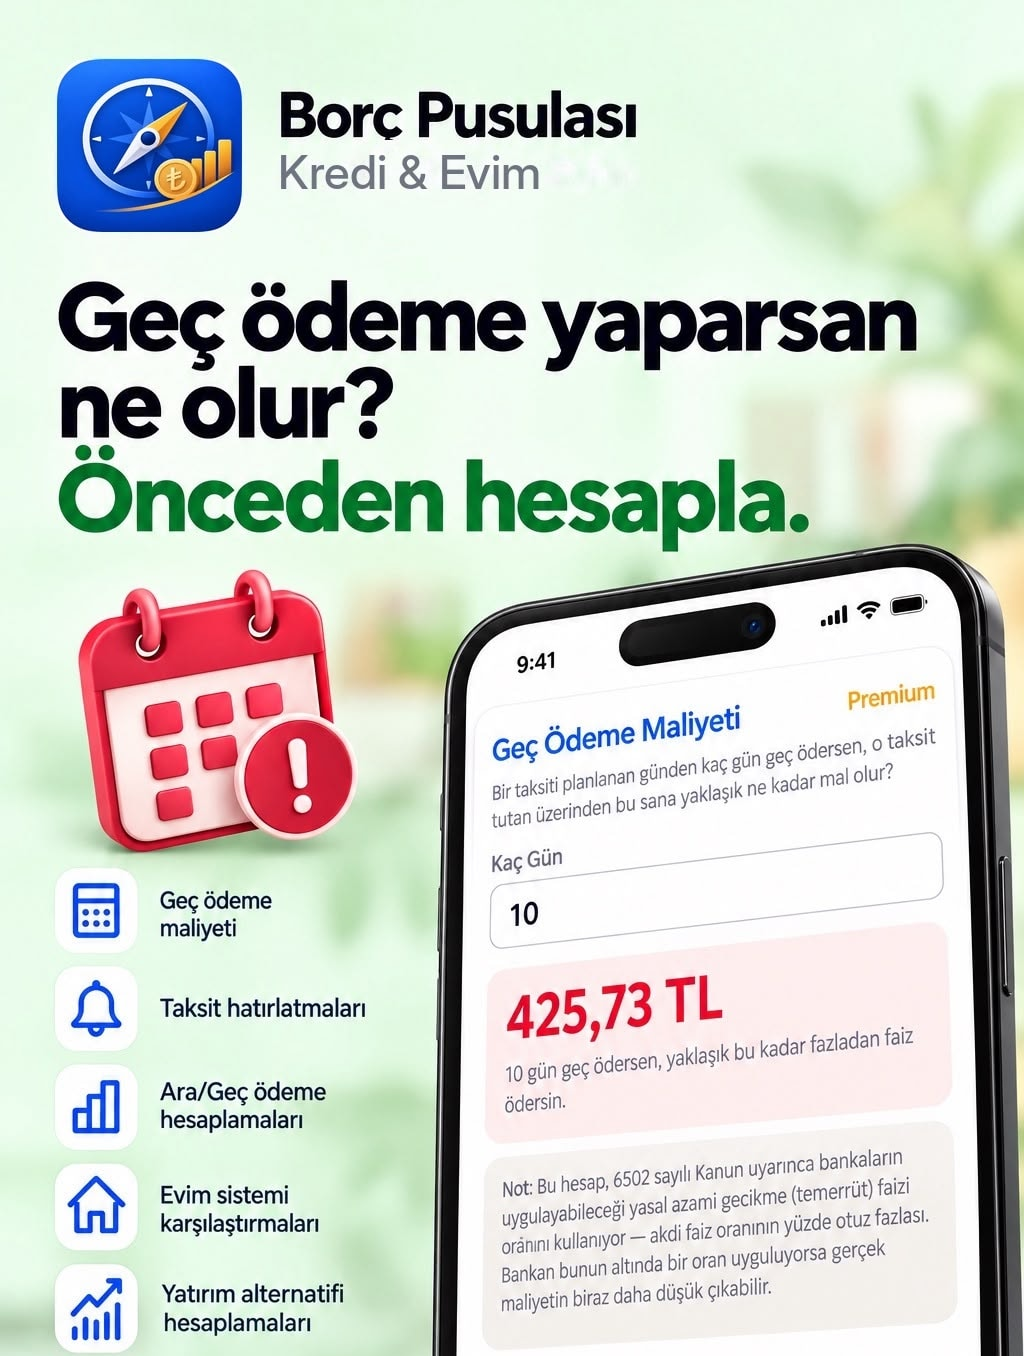
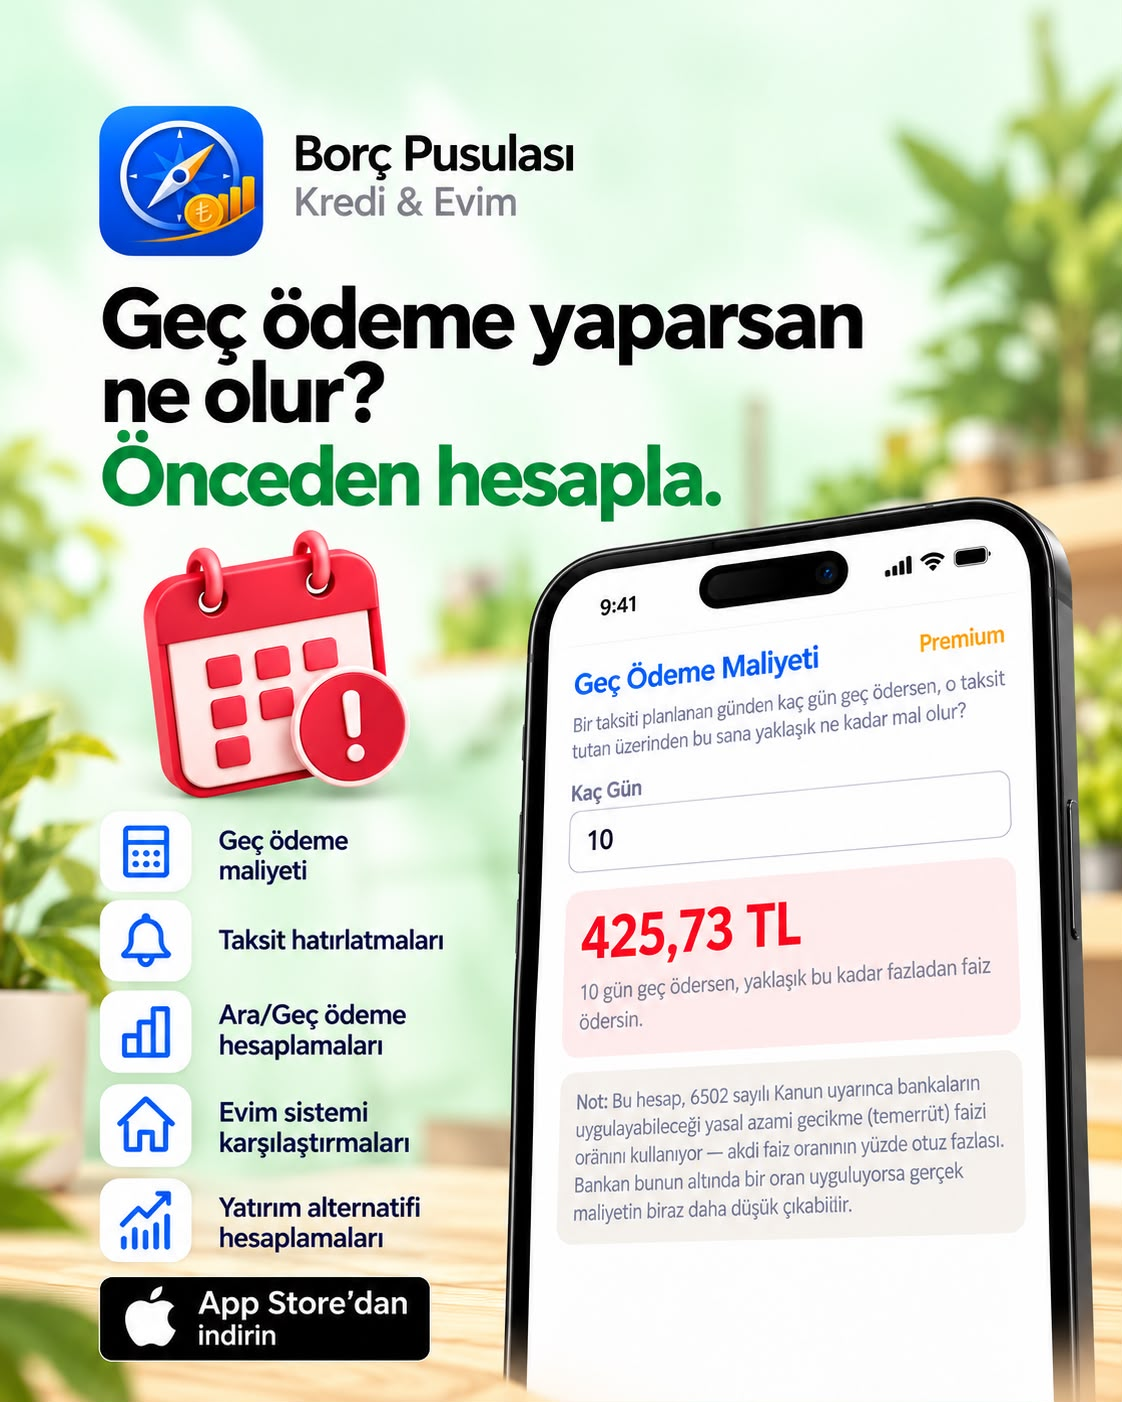
Refresh the poster images and add the Gayrimenkul Satış Vergim and Takip posters

diff --git a/index.html b/index.html
@@ -93,8 +93,8 @@
   .lead { font-size: clamp(18px, 2.2vw, 21px); color: var(--ink-soft); margin: 20px 0 30px; max-width: 34em; }
   .cta-row { display: flex; flex-wrap: wrap; align-items: center; gap: 16px; }
   .cta-note { color: var(--ink-soft); font-size: 15px; }
-  .hero-shot { justify-self: center; width: min(100%, 300px); }
-  .hero-shot .shot { aspect-ratio: 560 / 760; }
+  .hero-shot { justify-self: center; width: min(100%, 440px); }
+  .hero-shot .shot { aspect-ratio: 1 / 1; }
   .hero-shot .shot img { width: 100%; height: 100%; object-fit: cover; object-position: top; }
   .shots .shot img { width: 100%; height: auto; }
   .shot {
@@ -149,7 +149,7 @@
 
   @media (max-width: 820px) {
     .hero .wrap { grid-template-columns: 1fr; }
-    .hero-shot { order: -1; width: min(70%, 260px); }
+    .hero-shot { order: -1; width: min(100%, 420px); }
   }
   @media (prefers-reduced-motion: reduce) { html { scroll-behavior: auto; } .btn { transition: none; } }
 </style>
@@ -177,7 +177,7 @@
         </div>
       </div>
       <div class="hero-shot">
-        <div class="shot"><img src="img/ana-sayfa-poster.jpg" alt="Borç Pusulası ana sayfa: borçlarını sadece takip etme, gerçek maliyetini gör" width="1024" height="1356"></div>
+        <div class="shot"><img src="img/ana-sayfa-poster.jpg" alt="Borç Pusulası ana sayfa: borçlarını sadece takip etme, gerçek maliyetini gör" width="1254" height="1254"></div>
       </div>
     </div>
   </section>
@@ -240,18 +240,20 @@
     <div class="wrap wide">
       <h2 id="ekranlar">Ekranlardan</h2>
       <div class="shots">
-        <figure><a class="shot" href="img/kiram-ne-kadar-olur.jpg" target="_blank" rel="noopener"><img src="img/kiram-ne-kadar-olur.jpg" alt="Kiram Ne Kadar Olur?: kira artışını enflasyon, yeni kiracı endeksi ve yasal sınırla kıyasla" loading="lazy" width="1024" height="1536"></a></figure>
-        <figure><a class="shot" href="img/kredi-karti.jpg" target="_blank" rel="noopener"><img src="img/kredi-karti.jpg" alt="Kredi Kartı Borcun Ne Olur? hesaplayıcısı" loading="lazy" width="1024" height="1356"></a></figure>
-        <figure><a class="shot" href="img/ortalama-faiz.jpg" target="_blank" rel="noopener"><img src="img/ortalama-faiz.jpg" alt="Ortalama kredi faizleri: ihtiyaç, taşıt ve konut" loading="lazy" width="1024" height="1356"></a></figure>
-        <figure><a class="shot" href="img/gercek-maliyet.jpg" target="_blank" rel="noopener"><img src="img/gercek-maliyet.jpg" alt="Kredinin gerçek yıllık maliyeti ekranı" loading="lazy" width="1024" height="1356"></a></figure>
-        <figure><a class="shot" href="img/param.jpg" target="_blank" rel="noopener"><img src="img/param.jpg" alt="Param ne kadar olurdu: geçmiş getiri hesabı" loading="lazy" width="1024" height="1356"></a></figure>
-        <figure><a class="shot" href="img/biriktirsem.jpg" target="_blank" rel="noopener"><img src="img/biriktirsem.jpg" alt="Biriktirsem ne olur?: günlük, haftalık ya da aylık birikimin bileşik getiriyle ne kadar olur" loading="lazy" width="1024" height="1536"></a></figure>
-        <figure><a class="shot" href="img/evim.jpg" target="_blank" rel="noopener"><img src="img/evim.jpg" alt="Biriktirsem mi, Evim Sistemi ile mi alsam: karşılaştırma" loading="lazy" width="1024" height="1356"></a></figure>
-        <figure><a class="shot" href="img/karsilastir.jpg" target="_blank" rel="noopener"><img src="img/karsilastir.jpg" alt="Kredi mi, Evim Sistemi mi? Karşılaştır: bugünün parasıyla net maliyet" loading="lazy" width="1024" height="1536"></a></figure>
-        <figure><a class="shot" href="img/kmh.jpg" target="_blank" rel="noopener"><img src="img/kmh.jpg" alt="KMH günlük maliyet hesabı" loading="lazy" width="1024" height="1356"></a></figure>
-        <figure><a class="shot" href="img/gec-odeme.jpg" target="_blank" rel="noopener"><img src="img/gec-odeme.jpg" alt="Geç ödeme yaparsan ne olur: önceden hesapla" loading="lazy" width="1024" height="1356"></a></figure>
-        <figure><a class="shot" href="img/ara-odeme.jpg" target="_blank" rel="noopener"><img src="img/ara-odeme.jpg" alt="Ara ödeme yaparsan yeni durum nasıl olur? Hesapla" loading="lazy" width="1024" height="1536"></a></figure>
-        <figure><a class="shot" href="img/bildirim.jpg" target="_blank" rel="noopener"><img src="img/bildirim.jpg" alt="Bildirimle ödeme günlerini hatırlat" loading="lazy" width="1024" height="1356"></a></figure>
+        <figure><a class="shot" href="img/kiram-ne-kadar-olur.jpg" target="_blank" rel="noopener"><img src="img/kiram-ne-kadar-olur.jpg" alt="Kiram Ne Kadar Olur?: kira artışını enflasyon, yeni kiracı endeksi ve yasal sınırla kıyasla" loading="lazy" width="1122" height="1402"></a></figure>
+        <figure><a class="shot" href="img/gayrimenkul-vergi.jpg" target="_blank" rel="noopener"><img src="img/gayrimenkul-vergi.jpg" alt="Gayrimenkul Satış Vergim Ne Olur?: 5 yıl dolmadan satarsan çıkabilecek vergiyi hesapla" loading="lazy" width="1122" height="1402"></a></figure>
+        <figure><a class="shot" href="img/kredi-karti.jpg" target="_blank" rel="noopener"><img src="img/kredi-karti.jpg" alt="Kredi Kartı Borcun Ne Olur? hesaplayıcısı" loading="lazy" width="1254" height="1254"></a></figure>
+        <figure><a class="shot" href="img/ortalama-faiz.jpg" target="_blank" rel="noopener"><img src="img/ortalama-faiz.jpg" alt="Ortalama kredi faizleri: ihtiyaç, taşıt ve konut" loading="lazy" width="1122" height="1402"></a></figure>
+        <figure><a class="shot" href="img/takip.jpg" target="_blank" rel="noopener"><img src="img/takip.jpg" alt="Takip: tüm kredi, KMH ve Evim Sistemi hesaplarının güncel durumu tek listede" loading="lazy" width="1254" height="1254"></a></figure>
+        <figure><a class="shot" href="img/gercek-maliyet.jpg" target="_blank" rel="noopener"><img src="img/gercek-maliyet.jpg" alt="Kredinin gerçek yıllık maliyeti ekranı" loading="lazy" width="1254" height="1254"></a></figure>
+        <figure><a class="shot" href="img/param.jpg" target="_blank" rel="noopener"><img src="img/param.jpg" alt="Param ne kadar olurdu: geçmiş getiri hesabı" loading="lazy" width="1254" height="1254"></a></figure>
+        <figure><a class="shot" href="img/biriktirsem.jpg" target="_blank" rel="noopener"><img src="img/biriktirsem.jpg" alt="Biriktirsem ne olur?: günlük, haftalık ya da aylık birikimin bileşik getiriyle ne kadar olur" loading="lazy" width="1254" height="1254"></a></figure>
+        <figure><a class="shot" href="img/evim.jpg" target="_blank" rel="noopener"><img src="img/evim.jpg" alt="Biriktirsem mi, Evim Sistemi ile mi alsam: karşılaştırma" loading="lazy" width="1254" height="1254"></a></figure>
+        <figure><a class="shot" href="img/karsilastir.jpg" target="_blank" rel="noopener"><img src="img/karsilastir.jpg" alt="Kredi mi, Evim Sistemi mi? Karşılaştır: bugünün parasıyla net maliyet" loading="lazy" width="1254" height="1254"></a></figure>
+        <figure><a class="shot" href="img/kmh.jpg" target="_blank" rel="noopener"><img src="img/kmh.jpg" alt="KMH günlük maliyet hesabı" loading="lazy" width="1254" height="1254"></a></figure>
+        <figure><a class="shot" href="img/gec-odeme.jpg" target="_blank" rel="noopener"><img src="img/gec-odeme.jpg" alt="Geç ödeme yaparsan ne olur: önceden hesapla" loading="lazy" width="1122" height="1402"></a></figure>
+        <figure><a class="shot" href="img/ara-odeme.jpg" target="_blank" rel="noopener"><img src="img/ara-odeme.jpg" alt="Ara ödeme yaparsan yeni durum nasıl olur? Hesapla" loading="lazy" width="1254" height="1254"></a></figure>
+        <figure><a class="shot" href="img/bildirim.jpg" target="_blank" rel="noopener"><img src="img/bildirim.jpg" alt="Bildirimle ödeme günlerini hatırlat" loading="lazy" width="1254" height="1254"></a></figure>
       </div>
     </div>
   </section>
